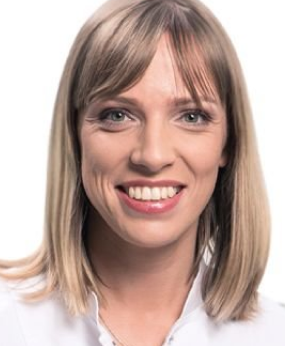
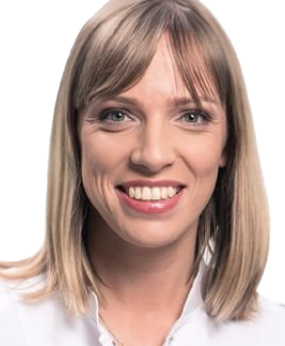
fix: заменить изображения

diff --git a/src/mocks/users.js b/src/mocks/users.js
@@ -23,13 +23,23 @@ import Yakovleva from "../images/yakovleva.png";
 
 // Фотографии авторов
 import Repenko from "../images/authors/repenko.png";
+import Poslavskaya from "../images/authors/poslavskaya.png";
 
 // Обложки для публикаций
-import Cover_1 from "../images/covers/image_1.png";
-import Cover_2 from "../images/covers/image_2.png";
-import Cover_3 from "../images/covers/image_3.png";
-import Cover_4 from "../images/covers/image_4.png";
-import Cover_5 from "../images/covers/image_5.png";
+// Репенко
+import Cover_1 from "../images/covers/repenko/image_1.jpg";
+import Cover_2 from "../images/covers/repenko/image_2.jpg";
+import Cover_3 from "../images/covers/repenko/image_3.jpg";
+import Cover_4 from "../images/covers/repenko/image_4.jpg";
+import Cover_5 from "../images/covers/repenko/image_5.jpg";
+// Пославская 
+import Cover_6 from "../images/covers/poslavskaya/image_1.jpg";
+import Cover_7 from "../images/covers/poslavskaya/image_2.jpg";
+import Cover_8 from "../images/covers/poslavskaya/image_3.jpg";
+// Борисенкова
+import Cover_9 from "../images/covers/borisenkova/image_1.jpg";
+import Cover_10 from "../images/covers/borisenkova/image_2.jpg";
+
 
 export const SPECIALISTS = [
   {
@@ -217,12 +227,12 @@ export const AUTHORS = [
       "Образование: Национальный исследовательский университет «Высшая школа экономики» (НИУ ВШЭ), специализация «журналистика».",
     quote:
       "Для меня медицинская журналистика и работа в Reya – это возможность узнать больше о женском организме и поделиться этими знаниями с другими девушками. В первую очередь я пишу на темы, связанные с фертильностью и патологиями, однако этим круг интересов не ограничивается.",
-    photo: Repenko,
+    photo: Poslavskaya,
     publications: [
       {
         title: "Женская гиперсексуальность: когда секс превращается в охоту",
         link: "https://reya.media/zhenskaya-giperseksualnost-kogda-seks-prevrashhaetsya-v-ohotu",
-        image: "",
+        image: Cover_6,
         type: "интервью",
         description:
           "Как три подруги из Москвы основали проект «Планируем вместе» и учат женщин не бояться бесплодия",
@@ -230,7 +240,7 @@ export const AUTHORS = [
       {
         title: "Весенний авитаминоз: правда или миф?",
         link: "https://reya.media/vesennij-avitaminoz-pravda-ili-mif",
-        image: "",
+        image: Cover_7,
         type: "интервью",
         description:
           "Как три подруги из Москвы основали проект «Планируем вместе» и учат женщин не бояться бесплодия",
@@ -238,7 +248,7 @@ export const AUTHORS = [
       {
         title: "Почему менструация идет несколько раз в месяц",
         link: "https://reya.media/pochemu-menstruacziya-idet-neskolko-raz-v-mesyacz",
-        image: "",
+        image: Cover_8,
         type: "интервью",
         description:
           "Как три подруги из Москвы основали проект «Планируем вместе» и учат женщин не бояться бесплодия",
@@ -256,7 +266,7 @@ export const AUTHORS = [
       {
         title: "Что такое диета карнивор простыми словами",
         link: "https://reya.media/chto-takoe-dieta-karnivor-prostymi-slovami",
-        image: "",
+        image: Cover_9,
         type: "интервью",
         description:
           "Как три подруги из Москвы основали проект «Планируем вместе» и учат женщин не бояться бесплодия",
@@ -265,7 +275,7 @@ export const AUTHORS = [
         title:
           "Пищевая зависимость: какое отношение к еде считается нездоровым",
         link: "https://reya.media/pishhevaya-zavisimost-kakoe-otnoshenie-k-ede-schitaetsya-nezdorovym",
-        image: "",
+        image: Cover_10,
         type: "интервью",
         description:
           "Как три подруги из Москвы основали проект «Планируем вместе» и учат женщин не бояться бесплодия",

diff --git a/src/components/ClipPaths/ClipPaths.js b/src/components/ClipPaths/ClipPaths.js
@@ -75,6 +75,29 @@ function ClipPaths() {
           />
         </clipPath>
       </svg>
+
+      <svg
+        class="wavy-svg"
+        xmlns="http://www.w3.org/2000/svg"
+        viewBox="0 0 1 1"
+        preserveAspectRatio="xMidYMid meet"
+      >
+        <clipPath id="wavy" clipPathUnits="objectBoundingBox">
+          <path d="M0.965,0.569 l-0.017,0.014 a0.137,0.104,0,0,0,-0.027,0.105 l0.007,0.014 a0.138,0.104,0,0,1,-0.075,0.131 l-0.027,0.009 a0.138,0.104,0,0,0,-0.08,0.074 h0 a0.138,0.104,0,0,1,-0.183,0.076 l-0.014,-0.004 a0.136,0.103,0,0,0,-0.097,0 l-0.014,0.004 a0.138,0.104,0,0,1,-0.183,-0.076 h0 a0.138,0.104,0,0,0,-0.08,-0.074 l-0.027,-0.009 a0.138,0.104,0,0,1,-0.075,-0.131 l0.007,-0.014 a0.137,0.104,0,0,0,-0.027,-0.105 l-0.017,-0.014 a0.138,0.104,0,0,1,0,-0.139 l0.017,-0.014 a0.137,0.104,0,0,0,0.027,-0.105 l-0.007,-0.014 a0.138,0.104,0,0,1,0.075,-0.131 l0.027,-0.009 a0.138,0.104,0,0,0,0.08,-0.074 h0 a0.138,0.104,0,0,1,0.183,-0.076 l0.014,0.004 a0.136,0.103,0,0,0,0.097,0 l0.014,-0.004 a0.138,0.104,0,0,1,0.183,0.076 h0 a0.138,0.104,0,0,0,0.08,0.074 l0.027,0.009 a0.138,0.104,0,0,1,0.075,0.131 l-0.007,0.014 a0.138,0.104,0,0,0,0.027,0.105 l0.017,0.014 A0.138,0.104,0,0,1,0.965,0.569"></path>
+        </clipPath>
+      </svg>
+      {/* 1 */}
+      <svg class="starlike-svg">
+        <clipPath id="starlike" clipPathUnits="objectBoundingBox">
+          <path d="M0.962,0.567 L0.962,0.568 C0.926,0.59,0.914,0.636,0.934,0.673 C0.962,0.725,0.925,0.788,0.866,0.789 C0.824,0.79,0.79,0.824,0.789,0.867 C0.788,0.926,0.724,0.962,0.673,0.934 C0.636,0.914,0.589,0.926,0.567,0.962 L0.567,0.962 C0.536,1,0.463,1,0.432,0.962 L0.432,0.962 C0.41,0.926,0.364,0.914,0.327,0.934 C0.275,0.962,0.212,0.926,0.21,0.867 C0.209,0.824,0.175,0.79,0.133,0.789 C0.074,0.788,0.038,0.725,0.066,0.673 C0.086,0.636,0.074,0.59,0.038,0.568 L0.038,0.567 C-0.013,0.537,-0.013,0.463,0.038,0.433 L0.038,0.432 C0.074,0.41,0.086,0.364,0.066,0.327 C0.038,0.275,0.074,0.212,0.133,0.211 C0.176,0.21,0.21,0.176,0.211,0.133 C0.212,0.074,0.275,0.038,0.327,0.066 C0.364,0.086,0.41,0.074,0.432,0.038 L0.433,0.038 C0.463,-0.013,0.537,-0.013,0.567,0.038 L0.568,0.038 C0.59,0.074,0.636,0.086,0.673,0.066 C0.725,0.038,0.788,0.074,0.789,0.133 C0.791,0.176,0.824,0.21,0.867,0.211 C0.926,0.212,0.962,0.275,0.934,0.327 C0.914,0.364,0.926,0.41,0.962,0.432 L0.962,0.433 C1,0.463,1,0.537,0.962,0.567"></path>
+        </clipPath>
+      </svg>
+      {/* 2 */}
+      <svg class="concave-rectangle-svg" viewBox="0 0 1 1">
+        <clipPath id="concave-rectangle" clipPathUnits="objectBoundingBox">
+          <path d="m0.78,0.995 l-0.151,-0.031 a0.506,0.386,0,0,0,-0.262,0 l-0.147,0.03 c-0.128,0.026,-0.247,-0.06,-0.214,-0.156 l0.08,-0.239 a0.526,0.401,0,0,0,0,-0.199 l-0.079,-0.235 c-0.033,-0.097,0.088,-0.183,0.217,-0.156 l0.126,0.027 a0.511,0.389,0,0,0,0.272,0.001 l0.157,-0.032 c0.128,-0.026,0.246,0.058,0.216,0.154 l-0.078,0.246 a0.521,0.397,0,0,0,0,0.188 l0.079,0.248 c0.03,0.095,-0.088,0.18,-0.216,0.154"></path>
+        </clipPath>
+      </svg>
     </div>
   );
 }

diff --git a/src/components/Publication/Publication.js b/src/components/Publication/Publication.js
@@ -3,9 +3,30 @@ import "./Publication.css";
 function Publication(props) {
   const { publication } = props;
 
+  function getClipPath(publication) {
+    if (
+      publication.title ===
+      "«Дети – это всегда счастье, неважно, каким образом они появились»"
+    ) {
+      return "starlike";
+    } else if (publication.title === "Что такое EMDR-терапия в психологии") {
+      return "concave-rectangle";
+    } else if (
+      publication.title ===
+      "Доказано: физкультура может заменить антидепрессанты"
+    ) {
+      return "concave-rectangle";
+    } else {
+      return "";
+    }
+  }
+
   return (
     <>
       <img
+        style={{
+          clipPath: `url(#${getClipPath(publication)})`,
+        }}
         className="publications__image"
         src={publication.image}
         alt={`Фотография ${publication.title}`}

diff --git a/src/components/Publication/Publication.css b/src/components/Publication/Publication.css
@@ -1,6 +1,3 @@
-.publications {
-}
-
 .publications__container {
   display: grid;
   grid-template-columns: 1fr 1fr 1fr 1fr;
@@ -21,7 +18,7 @@
   max-width: 320px;
   max-height: 420px;
   width: 100%;
-  object-fit: contain;
+  object-fit: cover;
 }
 
 .publications__backgroung {
